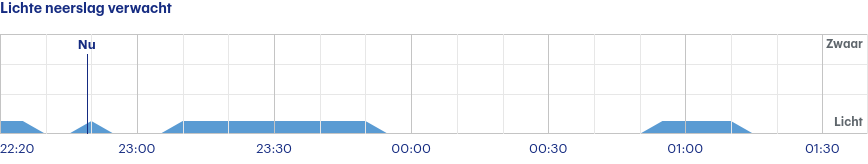
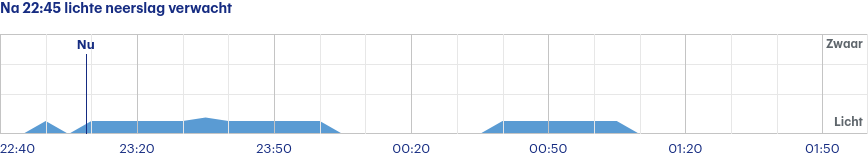
Latest scraping buienradar: Mon Jul 31 21:00:19 UTC 2023

diff --git a/scrapes/buienradar/buienradar-jette-3-uur.md b/scrapes/buienradar/buienradar-jette-3-uur.md
@@ -1,4 +1,4 @@
-Lichte neerslag verwacht
+Na 22:45 lichte neerslag verwacht
 
 ![](buienradar-jette-3-uur.png)
 
